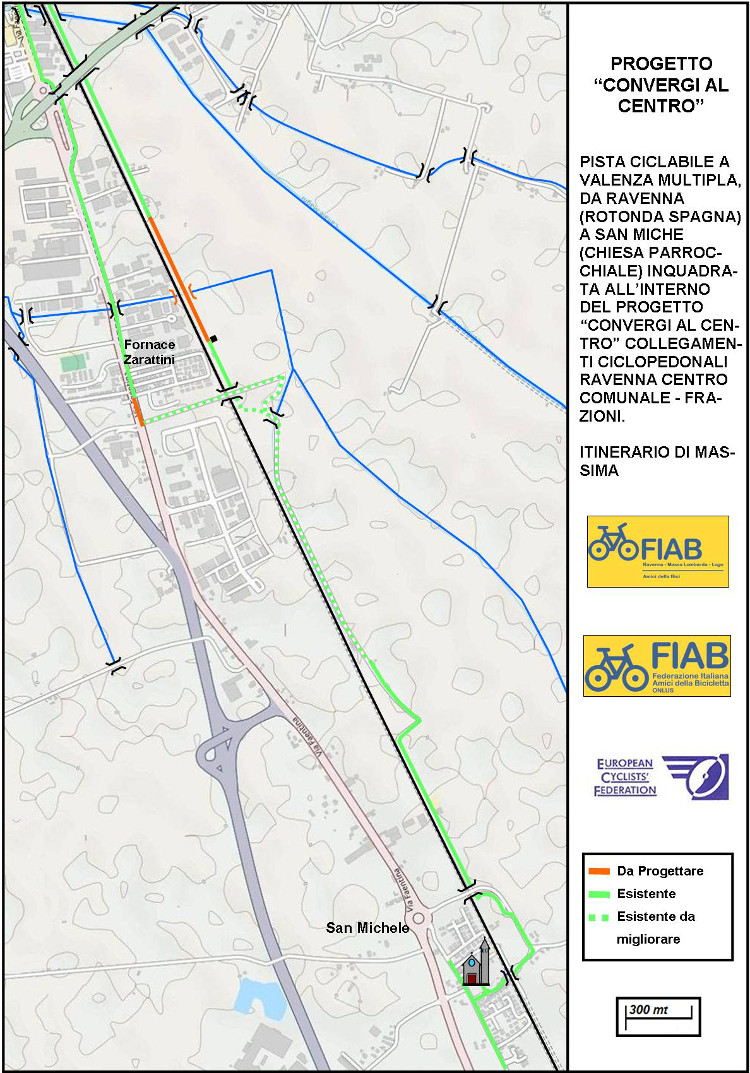
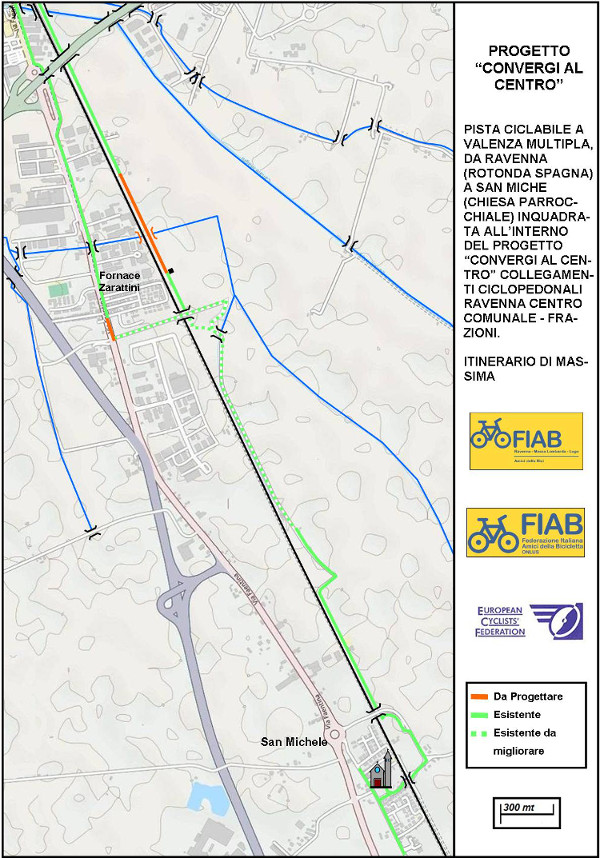
fix image

diff --git a/ciclabile.md b/ciclabile.md
@@ -19,7 +19,7 @@ Questo progetto è in fase di sviluppo in collaborazione con [FIAB di Ravenna](h
 
 In questa grafica è rappresentato il progetto: 
 
-<img src="/images/mappaciclabile.jpg" alt="Mappa ciclabile San Michele" style="width:750px;height:1073px;margin:30px 0px 0px 0px" align="middle">
+<img src="/images/mappaciclabile.jpg" alt="Mappa ciclabile San Michele" style="width:600px;height:858px;margin:30px 0px 0px 0px" align="middle">
 
 Tornate a visitare questa pagina, che verrà sempre aggiornata sugli sviluppi di questo progetto.
 
